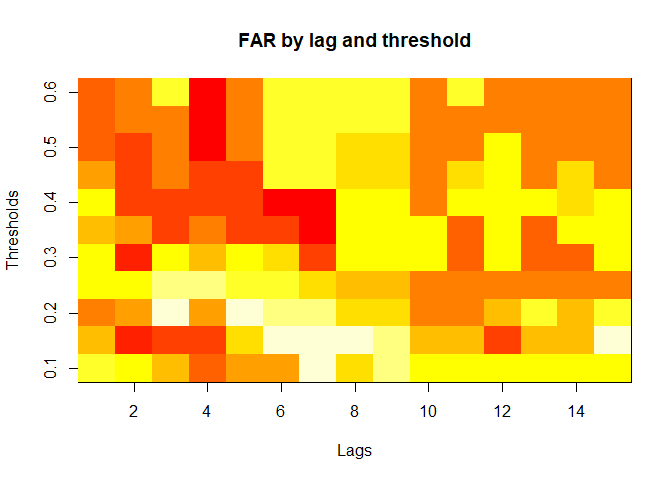
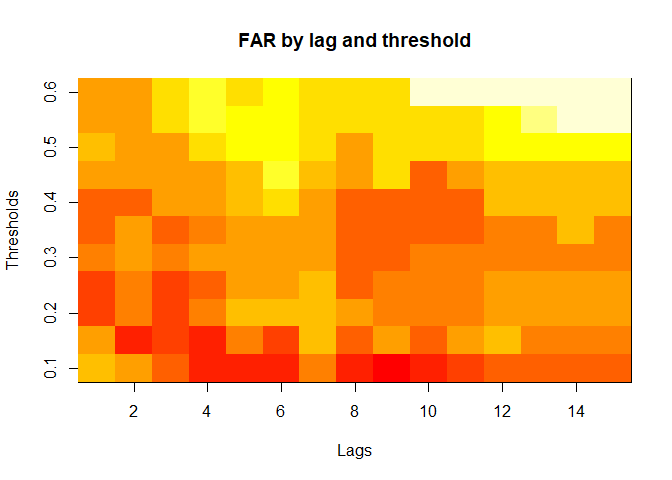
added seed value

diff --git a/README.md b/README.md
@@ -89,6 +89,8 @@ Please see example below:
 # Load the ATQ package
 library(ATQ)
 
+set.seed(69420)
+
 #Simulate number of elementary schools in each catchment
 catch_df <- catchment_sim(16, 5, shape = 4.68, rate = 3.01)
 
@@ -121,13 +123,13 @@ summary(epidemic)
 #> SSIR Epidemic Summary (Multiple Simulations):
 #> Number of simulations: 10 
 #> 
-#> Average total infected: 50746.2 
-#> Average total reported cases: 1013.7 
-#> Average peak infected: 3816.5 
+#> Average total infected: 41065.5 
+#> Average total reported cases: 826.9 
+#> Average peak infected: 3036.4 
 #> 
 #> Model parameters:
 #> $N
-#> [1] 165811
+#> [1] 136784
 #> 
 #> $T
 #> [1] 300
@@ -165,8 +167,8 @@ dplyr::glimpse(absent_data)
 #> Columns: 28
 #> $ Date        <int> 1, 2, 3, 4, 5, 6, 7, 8, 9, 10, 11, 12, 13, 14, 15, 16, 17,…
 #> $ ScYr        <int> 1, 1, 1, 1, 1, 1, 1, 1, 1, 1, 1, 1, 1, 1, 1, 1, 1, 1, 1, 1…
-#> $ pct_absent  <dbl> 0.05156766, 0.04988754, 0.04661123, 0.04987177, 0.04739303…
-#> $ absent      <dbl> 782, 773, 733, 766, 738, 810, 725, 781, 767, 738, 739, 723…
+#> $ pct_absent  <dbl> 0.05096603, 0.05190044, 0.05079590, 0.04899765, 0.05083607…
+#> $ absent      <dbl> 636, 661, 628, 627, 623, 624, 607, 603, 657, 673, 616, 667…
 #> $ absent_sick <dbl> 0, 0, 0, 0, 0, 0, 0, 0, 0, 0, 0, 0, 0, 0, 0, 0, 0, 0, 0, 0…
 #> $ new_inf     <dbl> 0, 0, 0, 0, 0, 0, 0, 0, 0, 0, 0, 0, 0, 0, 0, 0, 0, 0, 0, 0…
 #> $ lab_conf    <dbl> 0, 0, 0, 0, 0, 0, 0, 0, 0, 0, 0, 0, 0, 0, 0, 0, 0, 0, 0, 0…
@@ -175,20 +177,20 @@ dplyr::glimpse(absent_data)
 #> $ costerm     <dbl> 0.9998520, 0.9994082, 0.9986686, 0.9976335, 0.9963032, 0.9…
 #> $ window      <dbl> 0, 0, 0, 0, 0, 0, 0, 0, 0, 0, 0, 0, 0, 0, 0, 0, 0, 0, 0, 0…
 #> $ ref_date    <dbl> 0, 0, 0, 0, 0, 0, 0, 0, 0, 0, 0, 0, 0, 0, 0, 0, 0, 0, 0, 0…
-#> $ lag0        <dbl> 0.05156766, 0.04988754, 0.04661123, 0.04987177, 0.04739303…
-#> $ lag1        <dbl> NA, 0.05156766, 0.04988754, 0.04661123, 0.04987177, 0.0473…
-#> $ lag2        <dbl> NA, NA, 0.05156766, 0.04988754, 0.04661123, 0.04987177, 0.…
-#> $ lag3        <dbl> NA, NA, NA, 0.05156766, 0.04988754, 0.04661123, 0.04987177…
-#> $ lag4        <dbl> NA, NA, NA, NA, 0.05156766, 0.04988754, 0.04661123, 0.0498…
-#> $ lag5        <dbl> NA, NA, NA, NA, NA, 0.05156766, 0.04988754, 0.04661123, 0.…
-#> $ lag6        <dbl> NA, NA, NA, NA, NA, NA, 0.05156766, 0.04988754, 0.04661123…
-#> $ lag7        <dbl> NA, NA, NA, NA, NA, NA, NA, 0.05156766, 0.04988754, 0.0466…
-#> $ lag8        <dbl> NA, NA, NA, NA, NA, NA, NA, NA, 0.05156766, 0.04988754, 0.…
-#> $ lag9        <dbl> NA, NA, NA, NA, NA, NA, NA, NA, NA, 0.05156766, 0.04988754…
-#> $ lag10       <dbl> NA, NA, NA, NA, NA, NA, NA, NA, NA, NA, 0.05156766, 0.0498…
-#> $ lag11       <dbl> NA, NA, NA, NA, NA, NA, NA, NA, NA, NA, NA, 0.05156766, 0.…
-#> $ lag12       <dbl> NA, NA, NA, NA, NA, NA, NA, NA, NA, NA, NA, NA, 0.05156766…
-#> $ lag13       <dbl> NA, NA, NA, NA, NA, NA, NA, NA, NA, NA, NA, NA, NA, 0.0515…
+#> $ lag0        <dbl> 0.05096603, 0.05190044, 0.05079590, 0.04899765, 0.05083607…
+#> $ lag1        <dbl> NA, 0.05096603, 0.05190044, 0.05079590, 0.04899765, 0.0508…
+#> $ lag2        <dbl> NA, NA, 0.05096603, 0.05190044, 0.05079590, 0.04899765, 0.…
+#> $ lag3        <dbl> NA, NA, NA, 0.05096603, 0.05190044, 0.05079590, 0.04899765…
+#> $ lag4        <dbl> NA, NA, NA, NA, 0.05096603, 0.05190044, 0.05079590, 0.0489…
+#> $ lag5        <dbl> NA, NA, NA, NA, NA, 0.05096603, 0.05190044, 0.05079590, 0.…
+#> $ lag6        <dbl> NA, NA, NA, NA, NA, NA, 0.05096603, 0.05190044, 0.05079590…
+#> $ lag7        <dbl> NA, NA, NA, NA, NA, NA, NA, 0.05096603, 0.05190044, 0.0507…
+#> $ lag8        <dbl> NA, NA, NA, NA, NA, NA, NA, NA, 0.05096603, 0.05190044, 0.…
+#> $ lag9        <dbl> NA, NA, NA, NA, NA, NA, NA, NA, NA, 0.05096603, 0.05190044…
+#> $ lag10       <dbl> NA, NA, NA, NA, NA, NA, NA, NA, NA, NA, 0.05096603, 0.0519…
+#> $ lag11       <dbl> NA, NA, NA, NA, NA, NA, NA, NA, NA, NA, NA, 0.05096603, 0.…
+#> $ lag12       <dbl> NA, NA, NA, NA, NA, NA, NA, NA, NA, NA, NA, NA, 0.05096603…
+#> $ lag13       <dbl> NA, NA, NA, NA, NA, NA, NA, NA, NA, NA, NA, NA, NA, 0.0509…
 #> $ lag14       <dbl> NA, NA, NA, NA, NA, NA, NA, NA, NA, NA, NA, NA, NA, NA, 0.…
 #> $ lag15       <dbl> NA, NA, NA, NA, NA, NA, NA, NA, NA, NA, NA, NA, NA, NA, NA…
 
@@ -240,78 +242,78 @@ summary(alarm_metrics$results)
 #> =====================
 #> 
 #> FAR :
-#>   Mean: 0.7009 
-#>   Variance: 0.0042 
-#>   Best lag: 7 
-#>   Best threshold: 0.35 
-#>   Best value: 0.5556 
+#>   Mean: 0.5603 
+#>   Variance: 0.0191 
+#>   Best lag: 9 
+#>   Best threshold: 0.1 
+#>   Best value: 0.2111 
 #> 
 #> ADD :
-#>   Mean: 19.0862 
-#>   Variance: 32.6845 
+#>   Mean: 25.831 
+#>   Variance: 75.0129 
 #>   Best lag: 1 
 #>   Best threshold: 0.1 
-#>   Best value: 3.6667 
+#>   Best value: 6.1111 
 #> 
 #> AATQ :
-#>   Mean: 0.6084 
-#>   Variance: 0.0156 
-#>   Best lag: 1 
-#>   Best threshold: 0.15 
-#>   Best value: 0.2772 
+#>   Mean: 0.542 
+#>   Variance: 0.028 
+#>   Best lag: 2 
+#>   Best threshold: 0.1 
+#>   Best value: 0.1861 
 #> 
 #> FATQ :
-#>   Mean: 0.6867 
-#>   Variance: 0.007 
-#>   Best lag: 12 
-#>   Best threshold: 0.15 
-#>   Best value: 0.4755 
+#>   Mean: 0.5451 
+#>   Variance: 0.0228 
+#>   Best lag: 9 
+#>   Best threshold: 0.1 
+#>   Best value: 0.1964 
 #> 
 #> WAATQ :
-#>   Mean: 0.5486 
-#>   Variance: 0.0128 
+#>   Mean: 0.5288 
+#>   Variance: 0.0313 
 #>   Best lag: 1 
 #>   Best threshold: 0.15 
-#>   Best value: 0.2235 
+#>   Best value: 0.1373 
 #> 
 #> WFATQ :
-#>   Mean: 0.6542 
-#>   Variance: 0.0124 
-#>   Best lag: 2 
-#>   Best threshold: 0.4 
-#>   Best value: 0.4684 
+#>   Mean: 0.5474 
+#>   Variance: 0.0217 
+#>   Best lag: 4 
+#>   Best threshold: 0.1 
+#>   Best value: 0.2516 
 #> 
 #> Reference Dates:
 #>    epidemic_years ref_dates
-#> 1               1        59
-#> 2               2        20
-#> 3               3        30
-#> 4               4        20
-#> 5               5        39
-#> 6               6        66
-#> 7               7        64
-#> 8               8        37
-#> 9               9        29
-#> 10             10        64
+#> 1               1        53
+#> 2               2        64
+#> 3               3        43
+#> 4               4        61
+#> 5               5        45
+#> 6               6        49
+#> 7               7        40
+#> 8               8        48
+#> 9               9        61
+#> 10             10        79
 #> 
 #> Best Prediction Dates:
 #> FAR :
-#>  [1] NA NA NA NA 29 53 56 NA NA 58
+#>  [1] NA 50 42 54 45 40 31 NA 55 52
 #> 
 #> ADD :
-#>  [1] NA NA  3 10  7  2  4  2  7  3
+#>  [1] NA 47 NA 43 24 35 31 26 33  6
 #> 
 #> AATQ :
-#>  [1] NA NA 15 17  8 29  5  2 10 17
+#>  [1] NA 47 NA 46 30 36 30 32 37 31
 #> 
 #> FATQ :
-#>  [1] NA NA 11 20 28 58  5  3 NA 43
+#>  [1] NA 50 42 54 45 40 31 NA 55 52
 #> 
 #> WAATQ :
-#>  [1] NA NA 15 17  8 29  5  2 10 17
+#>  [1] NA 48 NA 43 24 35 37 26 37 31
 #> 
 #> WFATQ :
-#>  [1] NA NA NA NA 29 51 50 NA NA 56
+#>  [1] NA 46 NA 52 33 37 31 41 55 24
 
 # Generate and display plots for alarm metrics across epidemic years
 alarm_plots <- plot(alarm_metrics$plot_data)
@@ -322,7 +324,7 @@ for(i in seq_along(alarm_plots)) {
 
 <img src="man/figures/README-example-17.png" width="75%" /><img src="man/figures/README-example-18.png" width="75%" /><img src="man/figures/README-example-19.png" width="75%" /><img src="man/figures/README-example-20.png" width="75%" /><img src="man/figures/README-example-21.png" width="75%" /><img src="man/figures/README-example-22.png" width="75%" /><img src="man/figures/README-example-23.png" width="75%" /><img src="man/figures/README-example-24.png" width="75%" /><img src="man/figures/README-example-25.png" width="75%" />
 
-The final output ‘region_metric’ will be a list of 6 matrices and 6 data
+The final output `region_metric` will be a list of 6 matrices and 6 data
 frames. The matrices describe the values of metrics for respective lag
 and thresholds.
 
